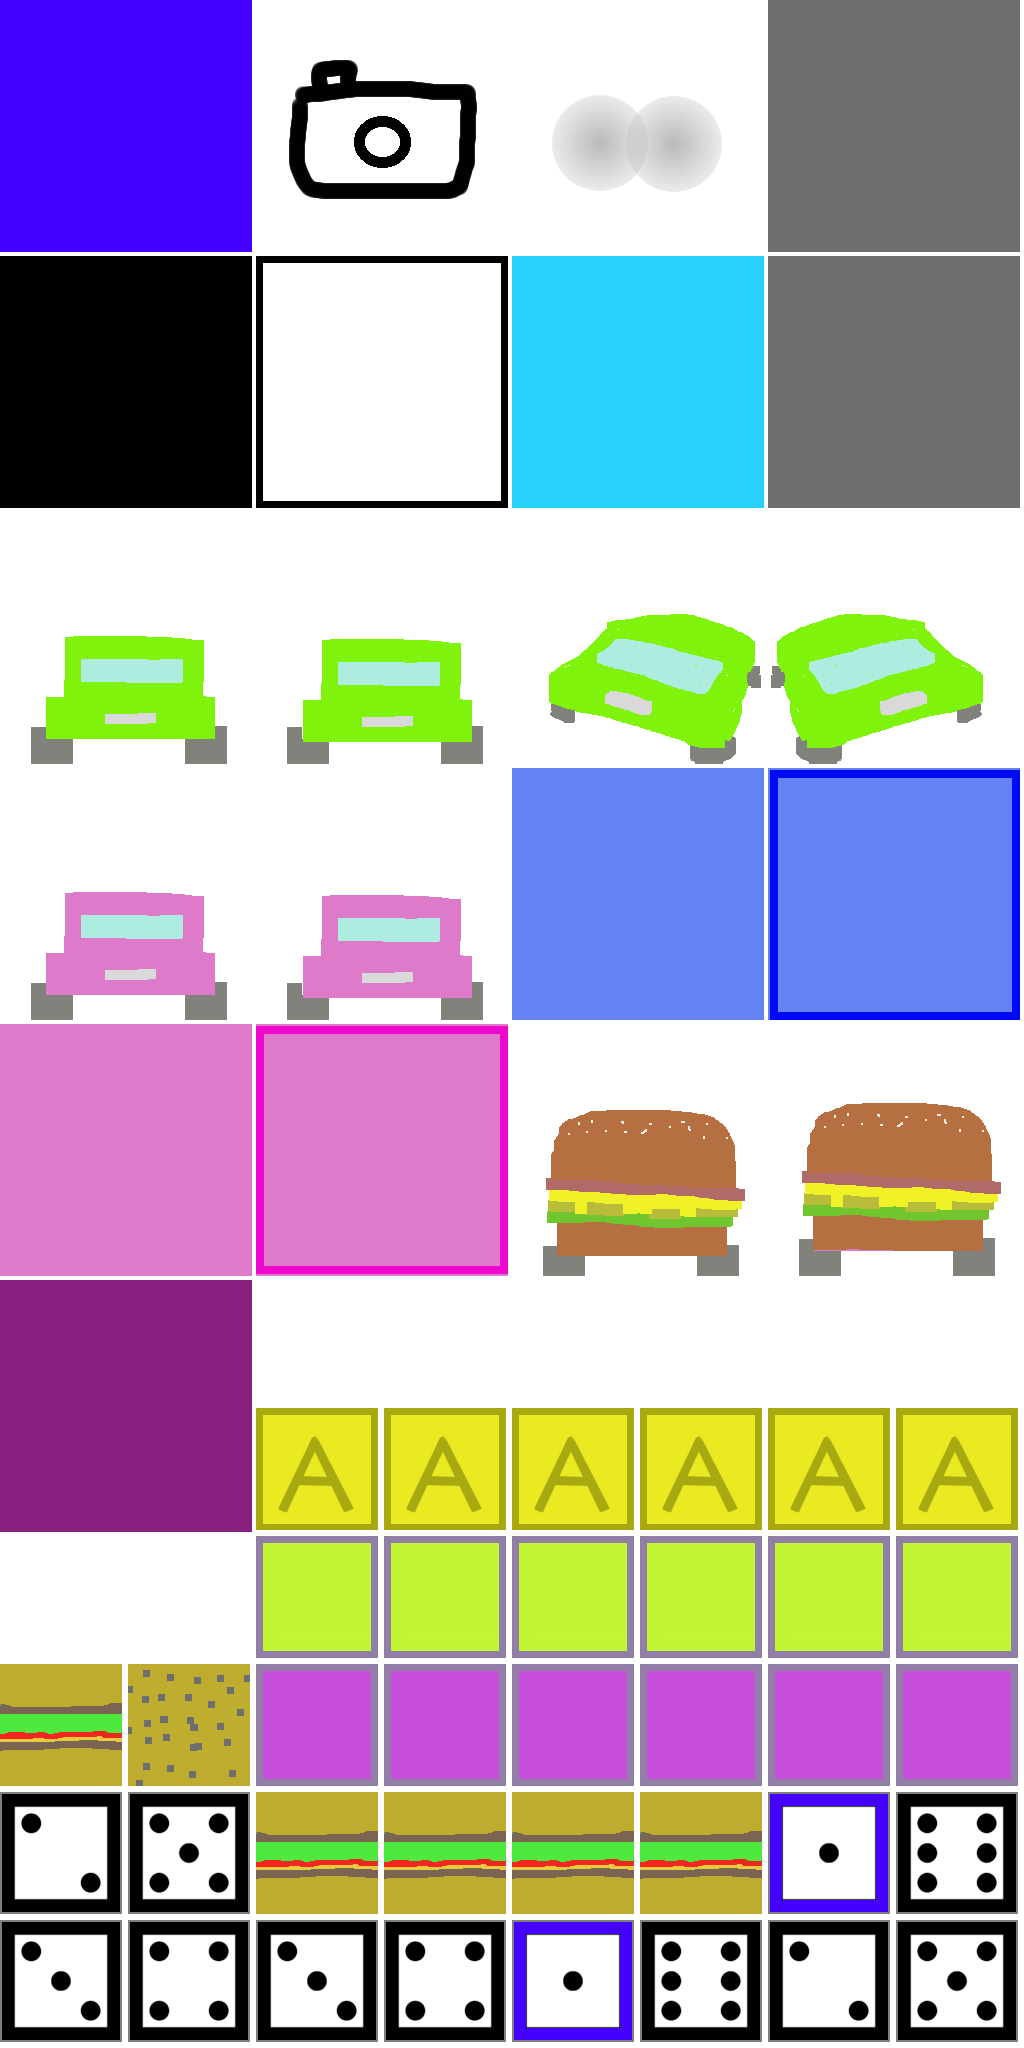
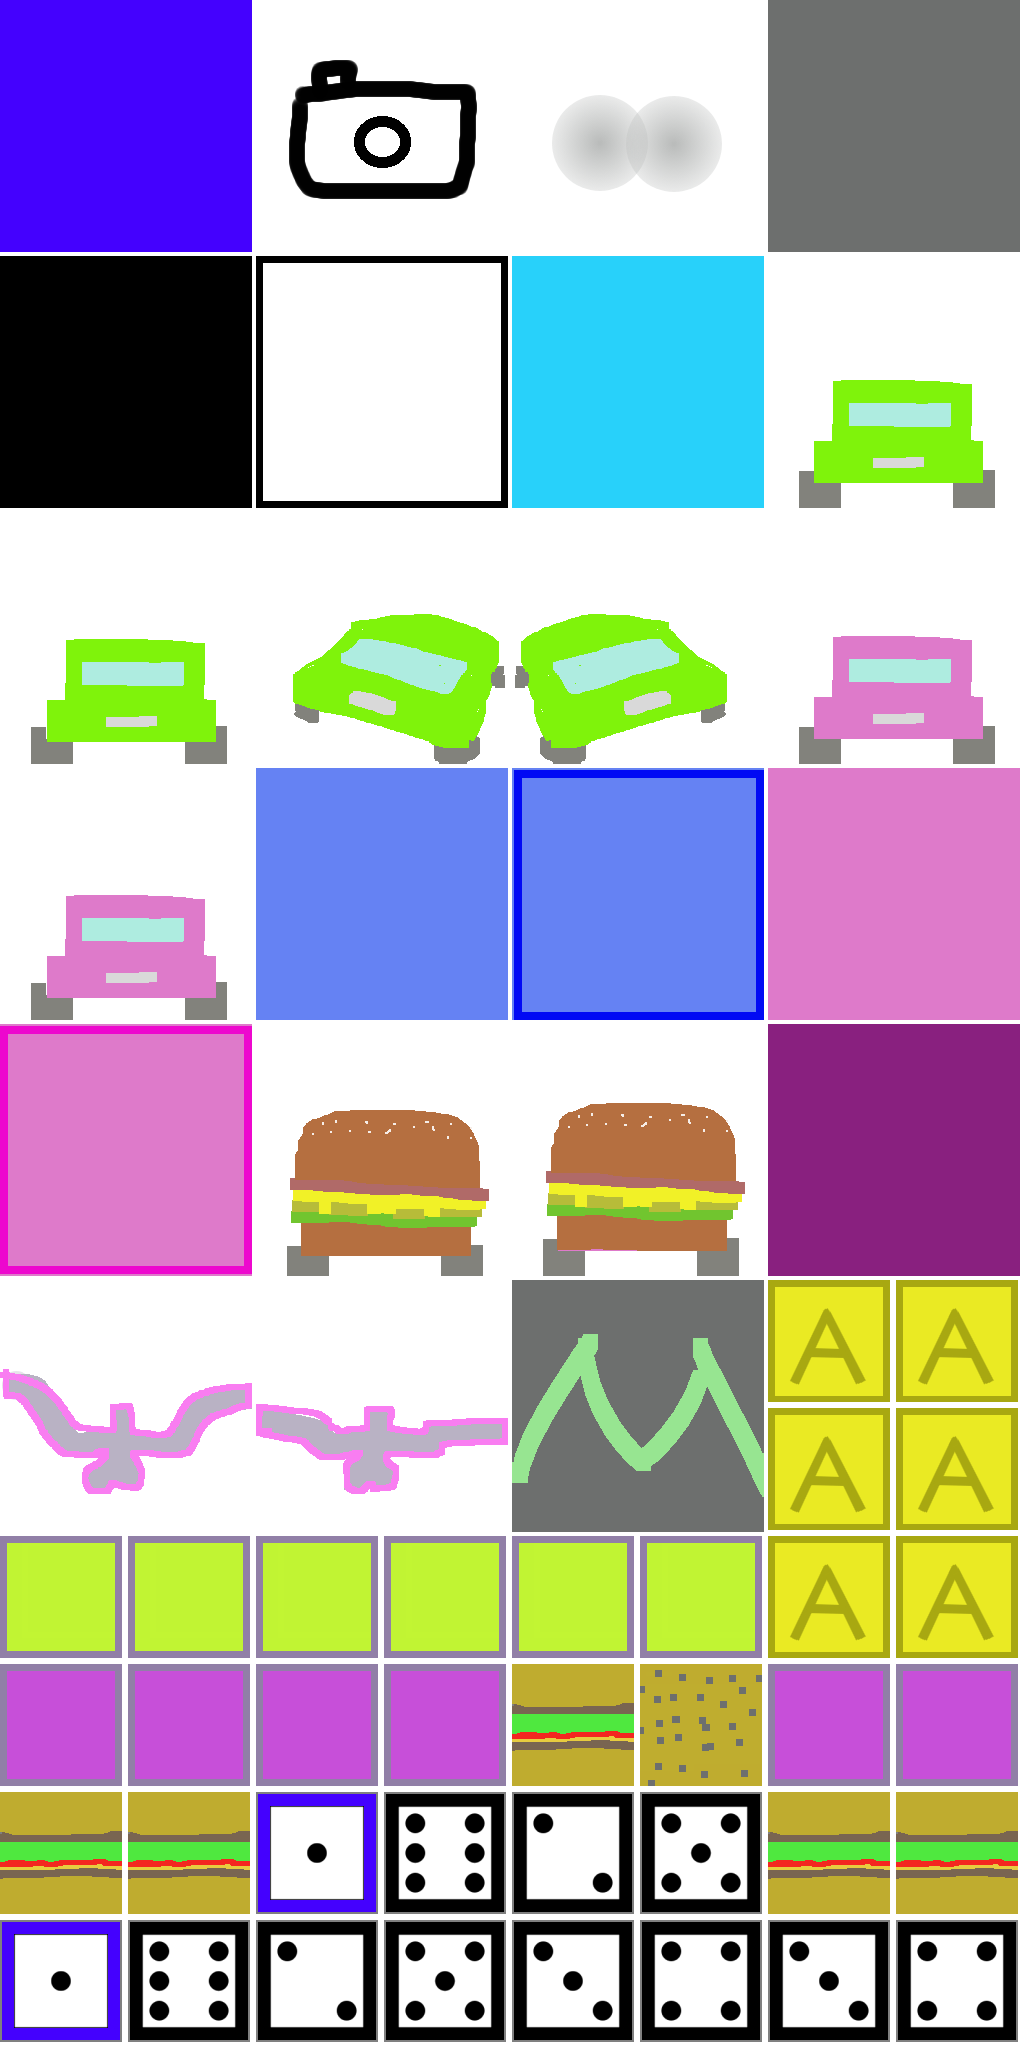
vc

diff --git a/scripts/c3runtime.js b/scripts/c3runtime.js
@@ -4780,6 +4780,7 @@ self.C3_GetObjectRefTable = function () {
 		C3.Behaviors.Bullet.Acts.SetAngleOfMotion,
 		C3.Behaviors.Bullet.Cnds.CompareTravelled,
 		C3.Plugins.Shape3D.Cnds.IsOverlapping,
+		C3.Behaviors.Car.Acts.Stop,
 		C3.Plugins.Sprite.Cnds.OnCollision
 	];
 };
@@ -4824,11 +4825,13 @@ self.C3_JsPropNameTable = [
 	{lap: 0},
 	{angleDir: 0},
 	{randomOffset: 0},
+	{Monster: 0},
 	{MonsterCollision: 0},
 	{MonsterSpriteBurger: 0},
 	{MonsterModel: 0},
 	{CheckpointNumber: 0},
 	{Checkpoint: 0},
+	{MonsterSpriteBird: 0},
 	{Skipper: 0},
 	{TouchDevice: 0},
 	{CharacterSelect: 0},
@@ -4985,6 +4988,8 @@ self.C3_ExpressionFuncs = [
 		() => "Map Level",
 		() => "PlayerModel",
 		() => "MonsterModel",
+		() => "Bird",
+		() => "Burger",
 		() => "Movement",
 		() => "RightTurn",
 		() => "LeftTurn",
@@ -5016,7 +5021,7 @@ self.C3_ExpressionFuncs = [
 		},
 		p => {
 			const f0 = p._GetNode(0).GetBoundMethod();
-			return () => f0((-25), 25);
+			return () => f0((-20), 20);
 		},
 		() => "PickUps",
 		p => {
